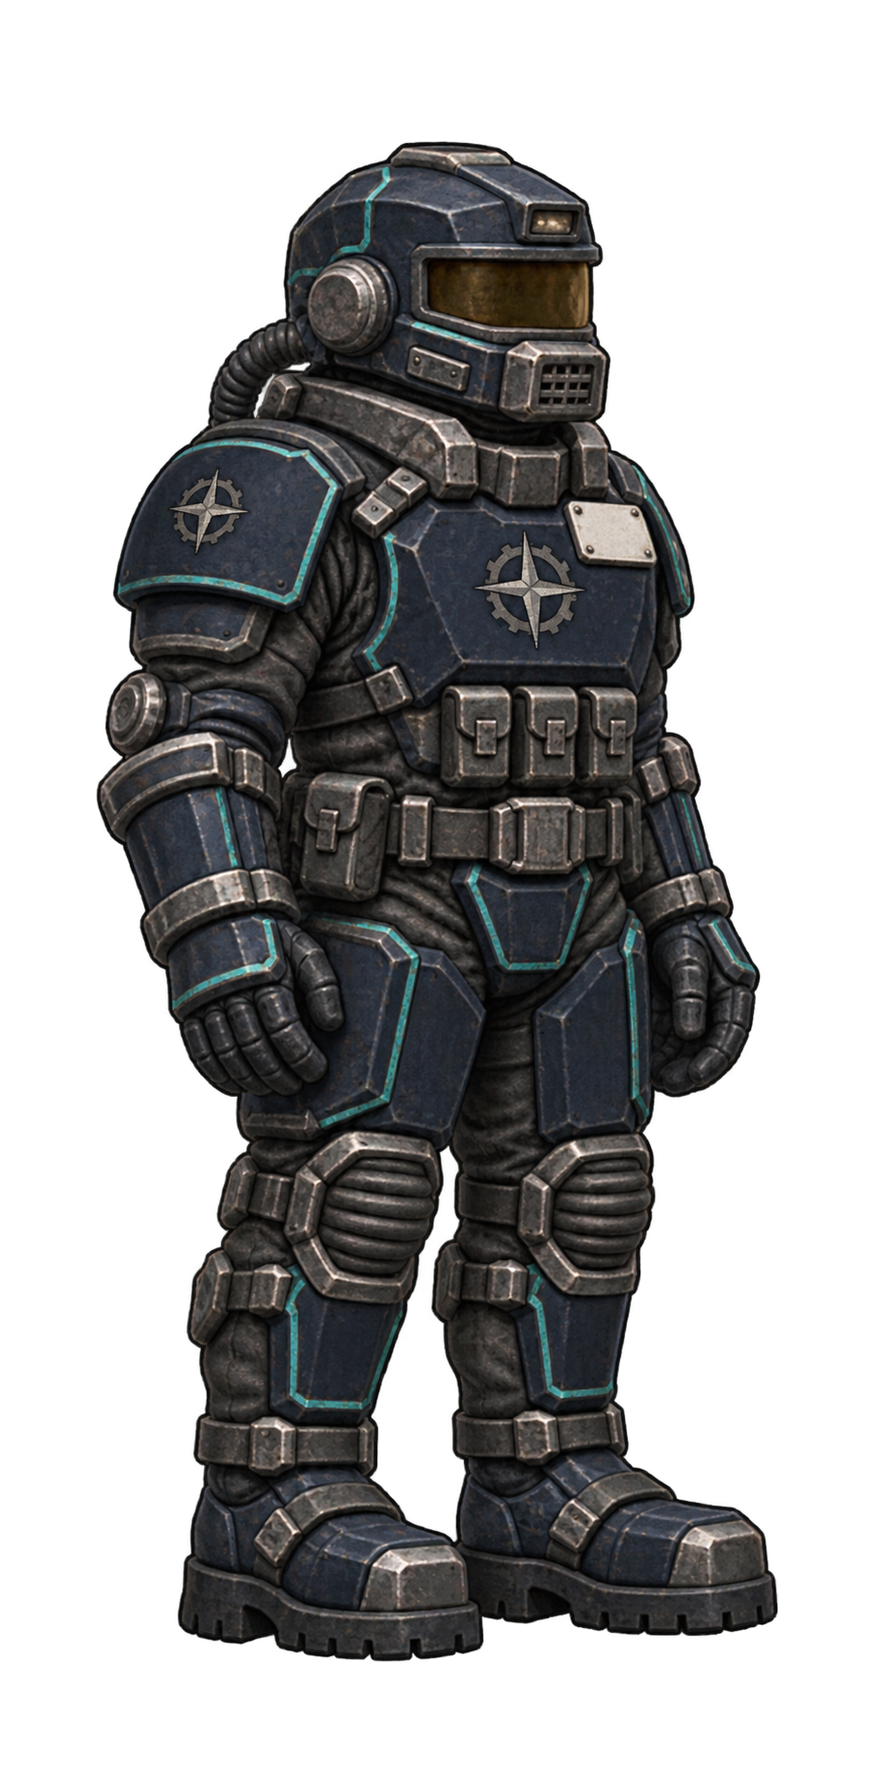
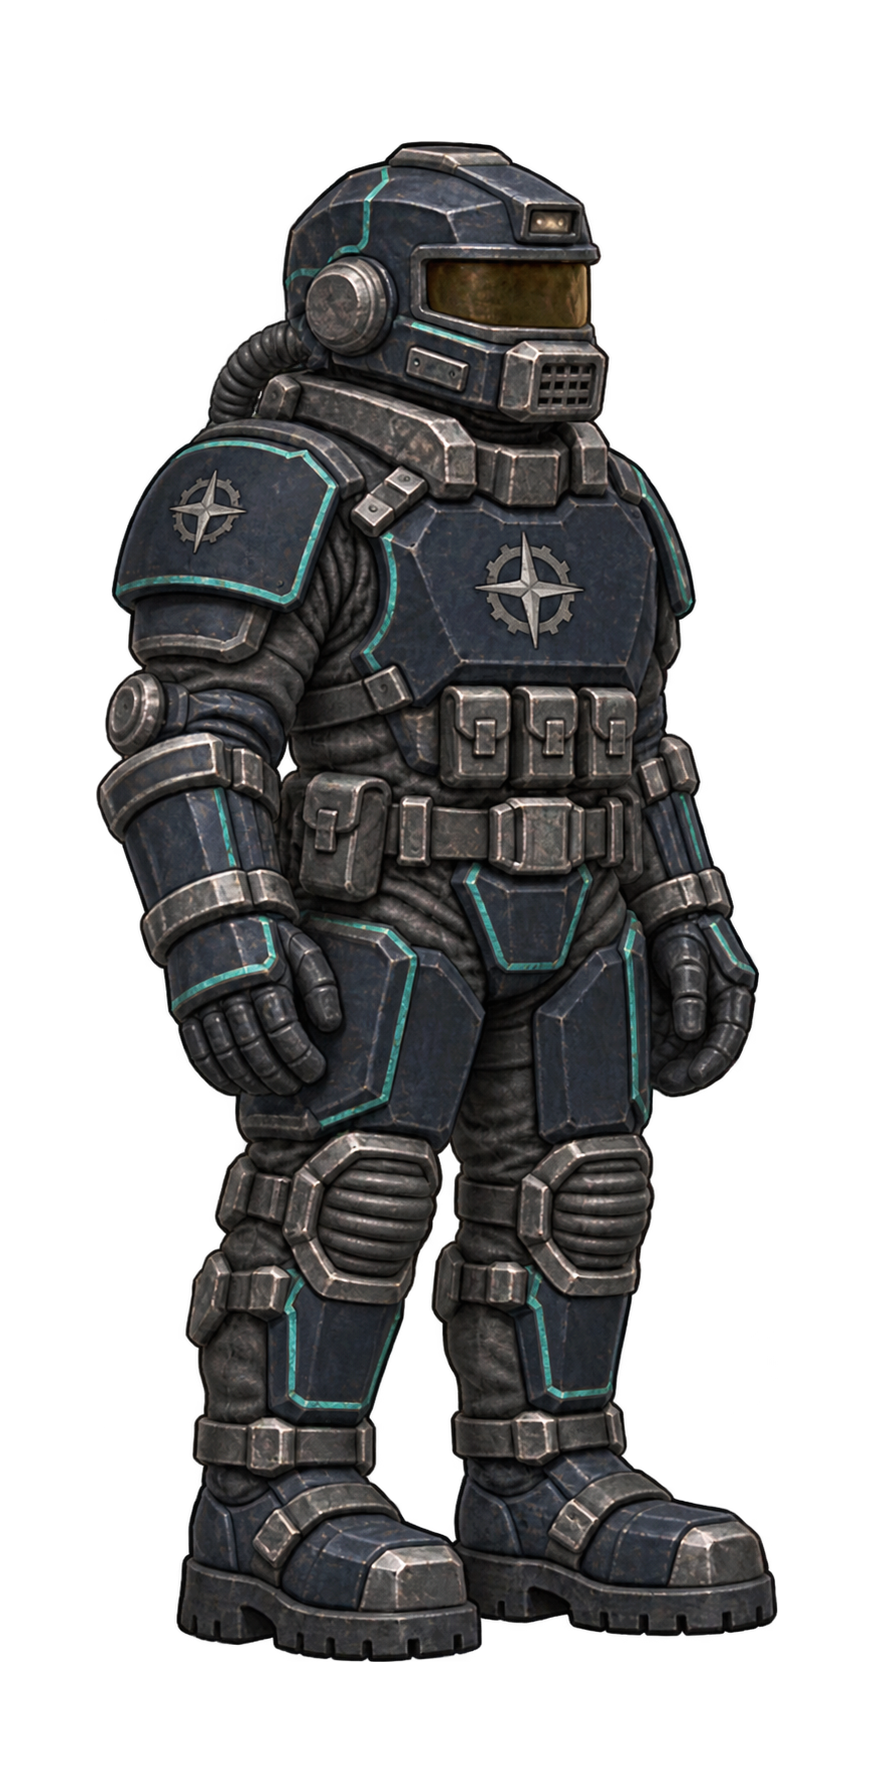
modified:   System-Aegis-No-Headsets/Assets/Factions/coalition/rack-suit.png 	modified:   System-Aegis-No-Headsets/Assets/Factions/coalition/suit-v2.png 	modified:   System-Aegis-No-Headsets/aegis_factions.xml 	modified:   System-Aegis-No-Headsets/filelist.xml 	modified:   docs/FACTION-COLORS.md 	mo

diff --git a/docs/faction-colors/preview.html b/docs/faction-colors/preview.html
@@ -15,7 +15,7 @@ article header p,article>p{color:#c5d0cc}.portrait{display:flex;justify-content:
 </style>
 <main>
 <h1>Kombinezony frakcji</h1>
-<p>System Aegis 1.8.6</p>
+<p>System Aegis 1.8.7</p>
 <a href="../FACTION-COLORS.md">Gdzie kupić i jak używać</a>
 <section class="grid">
 <article style="--accent:#c94d4e">

diff --git a/tests/test_faction_colors.py b/tests/test_faction_colors.py
@@ -292,17 +292,29 @@ class FactionFrameTests(unittest.TestCase):
 
     def test_coalition_chest_and_shoulder_emblems_use_the_game_faction_icon(self):
         suit = ET.parse(MOD / 'aegis_factions.xml').find("Item[@identifier='aegisservosuitcoalition']")
-        for name, limb, plate_depth in (('Coalition emblem', 'Torso', .06),
-                                        ('Coalition emblem RightArm', 'RightArm', .02),
-                                        ('Coalition emblem LeftArm', 'LeftArm', .14)):
+        for name, limb, plate_depth, bounds in (
+            ('Coalition emblem', 'Torso', .06, (64, 37, 114, 73)),
+            ('Coalition emblem RightArm', 'RightArm', .02, (40, 9, 92, 54)),
+            ('Coalition emblem LeftArm', 'LeftArm', .14, (40, 9, 92, 54)),
+        ):
             badge = suit.find(f"Wearable/sprite[@name='{name}']")
             self.assertEqual(badge.get('limb'), limb)
             self.assertEqual(badge.get('texture'), 'Content/UI/CampaignUIAtlas2.png')
             self.assertEqual(badge.get('sourcerect'), '143,523,94,113')
             self.assertEqual(badge.get('inheritlimbdepth'), 'false')
             self.assertAlmostEqual(float(badge.get('depth')), plate_depth - .001)
-        chest = suit.find("Wearable/sprite[@name='Coalition emblem']")
-        self.assertGreaterEqual(float(chest.get('scale')), .4)
+            plate = suit.find(f"Wearable/sprite[@name='Aegis {limb}']")
+            _, _, plate_width, plate_height = map(int, plate.get('sourcerect').split(','))
+            _, _, badge_width, badge_height = map(int, badge.get('sourcerect').split(','))
+            plate_x, plate_y = map(float, plate.get('origin').split(','))
+            badge_x, badge_y = map(float, badge.get('origin').split(','))
+            scale = float(badge.get('scale')) / float(plate.get('scale'))
+            left = plate_width * plate_x - badge_width * badge_x * scale
+            top = plate_height * plate_y - badge_height * badge_y * scale
+            self.assertGreaterEqual(left, bounds[0], name)
+            self.assertGreaterEqual(top, bounds[1], name)
+            self.assertLessEqual(left + badge_width * scale, bounds[2], name)
+            self.assertLessEqual(top + badge_height * scale, bounds[3], name)
 
 
 class FactionSalesTests(unittest.TestCase):

diff --git a/docs/FACTION-COLORS.md b/docs/FACTION-COLORS.md
@@ -1,10 +1,10 @@
-# Kombinezony frakcji w Systemie Aegis 1.8.6
+# Kombinezony frakcji w Systemie Aegis 1.8.7
 
 Każda z sześciu frakcji ma własny krój kombinezonu, hełm i osłony osprzętu.
 Rozpoznasz zestawy po kształtach, materiale i widocznych oznaczeniach.
 Warianty mają te same receptury, ochronę i funkcje.
 
-[Porównaj kombinezony](faction-colors/preview.html) · [ZIP 1.8.6](../output/System-Aegis-1.8.6.zip)
+[Porównaj kombinezony](faction-colors/preview.html) · [ZIP 1.8.7](../output/System-Aegis-1.8.7.zip)
 
 | Frakcja | Motyw |
 |---|---|

diff --git a/docs/NO-HEADSETS.md b/docs/NO-HEADSETS.md
@@ -1,7 +1,7 @@
-# System Aegis 1.8.6
+# System Aegis 1.8.7
 
 Archiwum zawiera kompletny folder moda `System-Aegis/`.
-[Gotowy ZIP](../output/System-Aegis-1.8.6.zip).
+[Gotowy ZIP](../output/System-Aegis-1.8.7.zip).
 
 
 W tym wariancie są odkurzacz z plecakiem, kombinezon Aegis, bojowy multitool,
